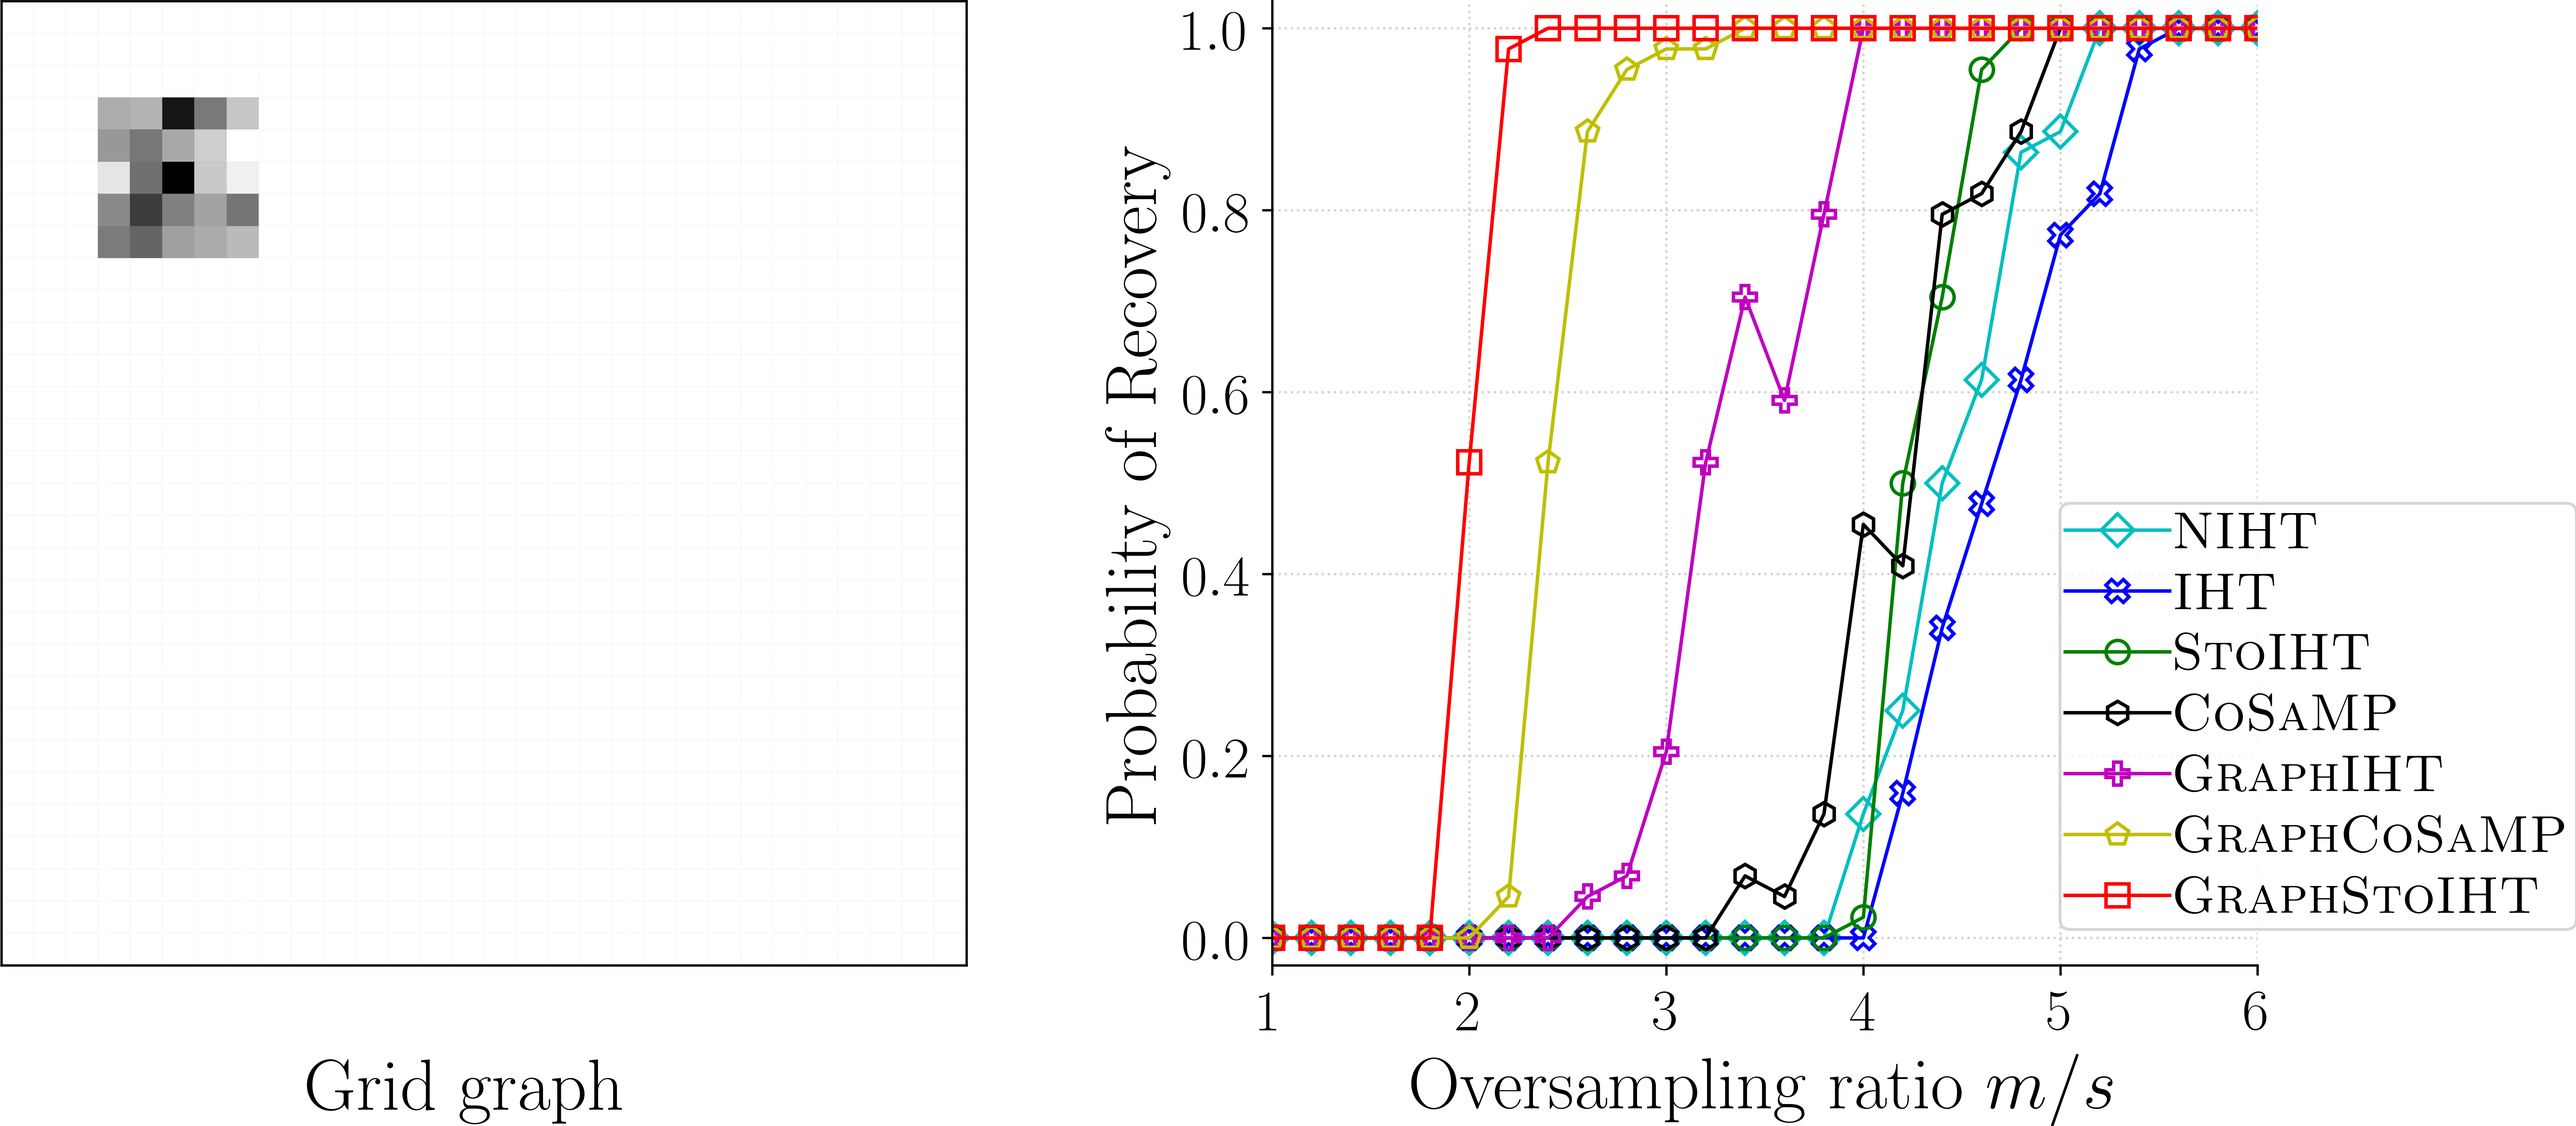
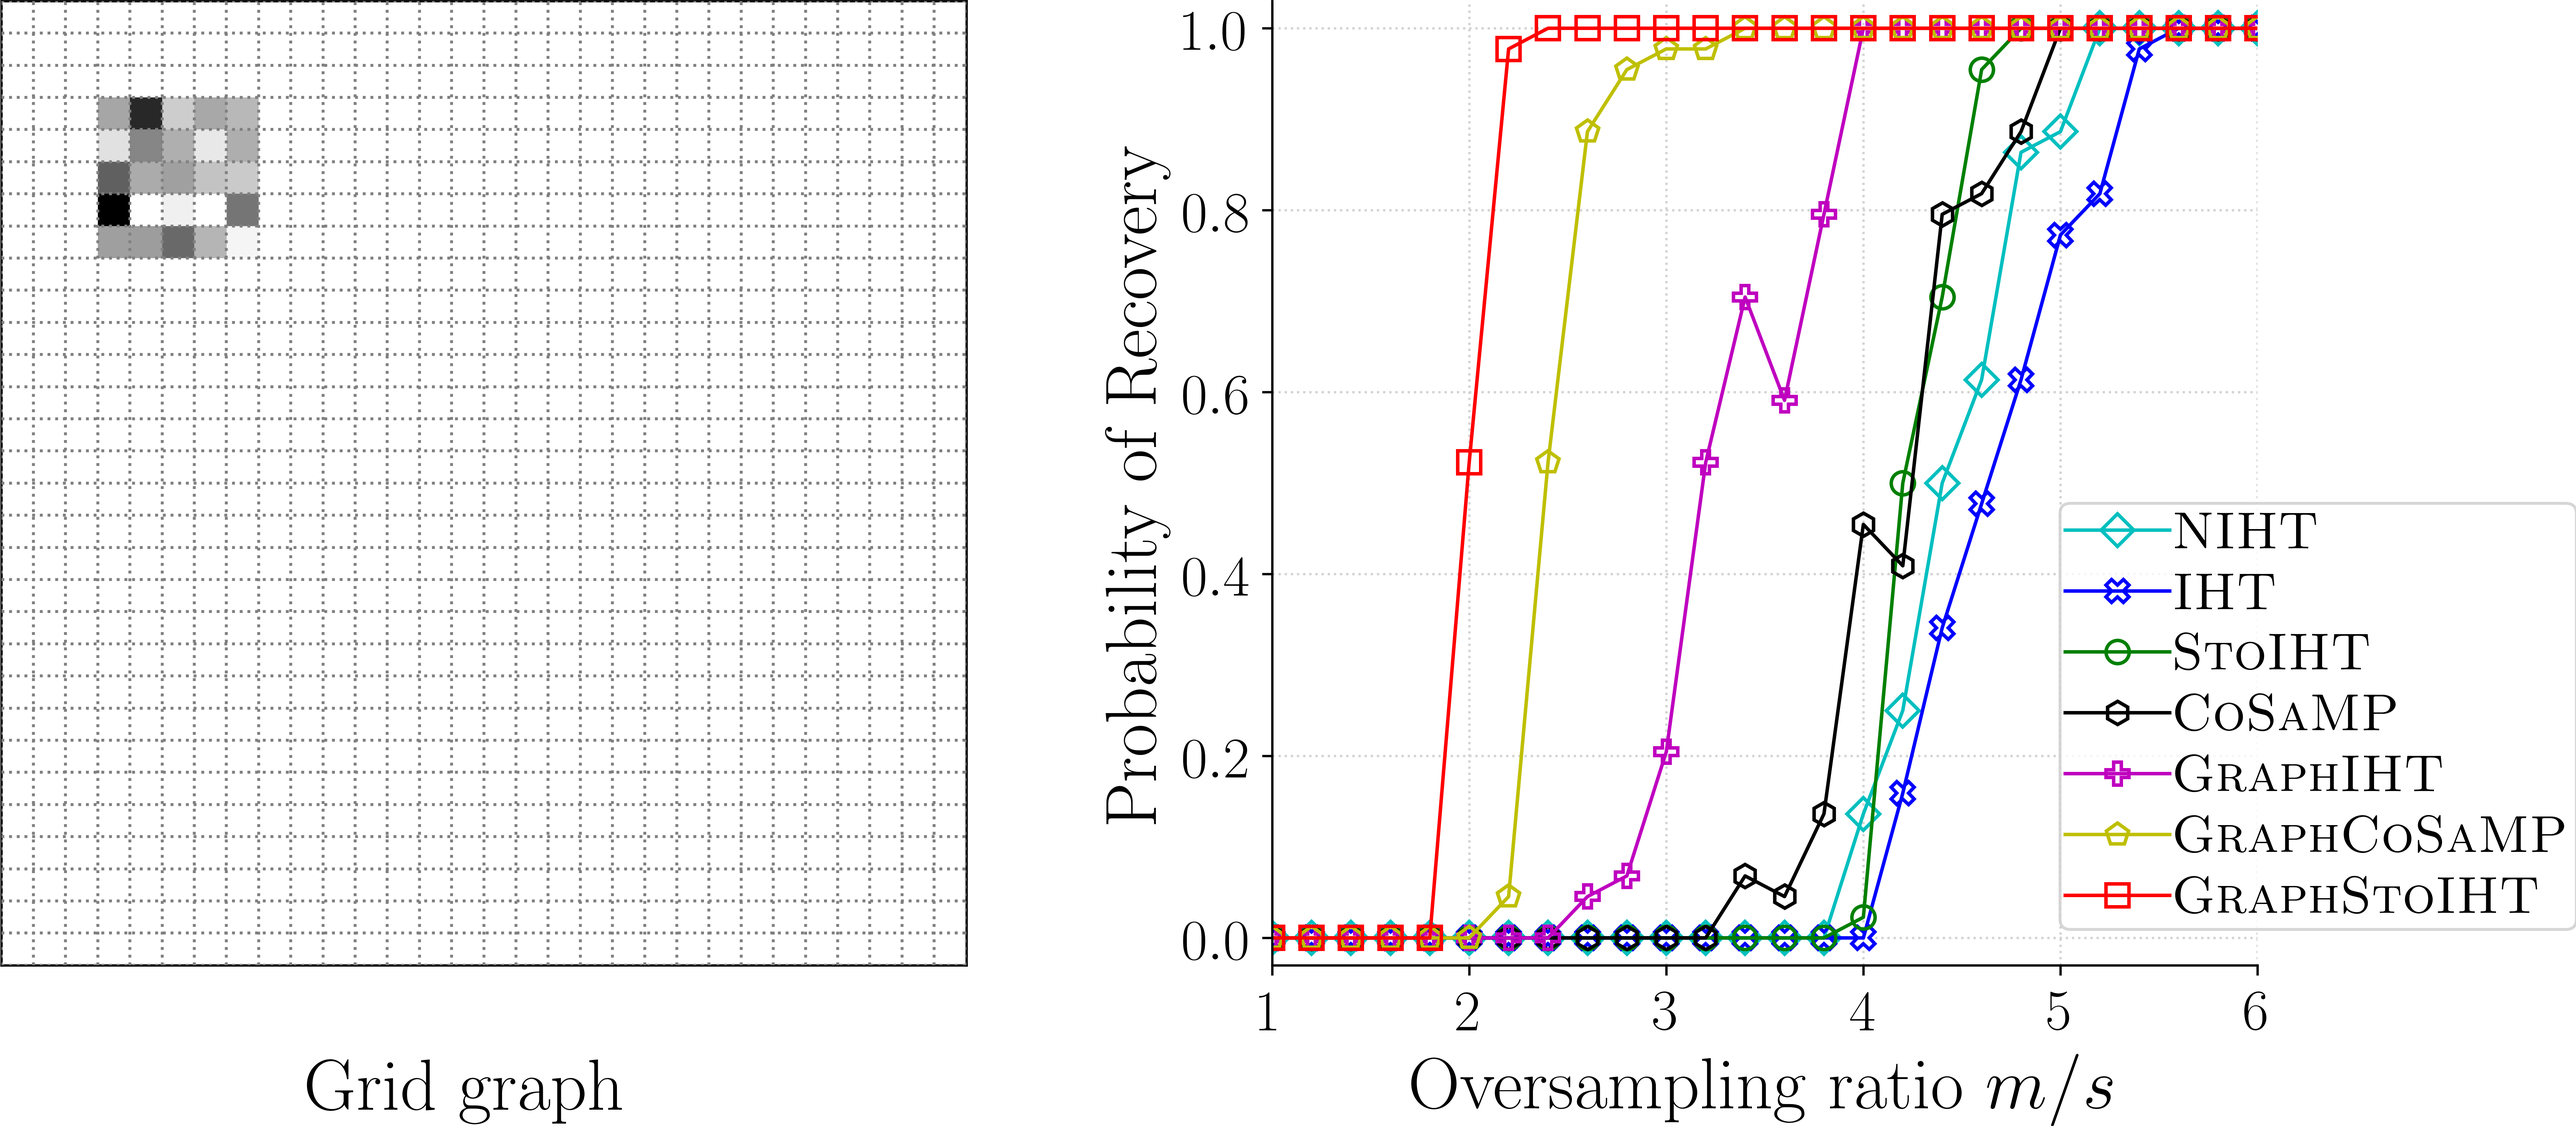
update

Changed region(s): [[0.0312, 0.0624, 0.1249, 0.2496]]

diff --git a/exp_sr_test05.py b/exp_sr_test05.py
@@ -792,10 +792,10 @@ def show_test(n_list, method_list, method_label_list, root_p):
         i, j = node_id / height, node_id % width
         x_star[i, j] = np.random.normal(0.0, 1.0)
     for i in range(height + 1):
-        ax[0].axhline(i, lw=.1, color='gray', linestyle='dotted',
+        ax[0].axhline(i, lw=1.0, color='gray', linestyle='dotted',
                       zorder=5)
     for i in range(width + 1):
-        ax[0].axvline(i, lw=.1, color='gray', linestyle='dotted',
+        ax[0].axvline(i, lw=1.0, color='gray', linestyle='dotted',
                       zorder=5)
     ax[0].imshow(x_star, interpolation='none', cmap='gray',
                  extent=[0, height, 0, width], zorder=0)
